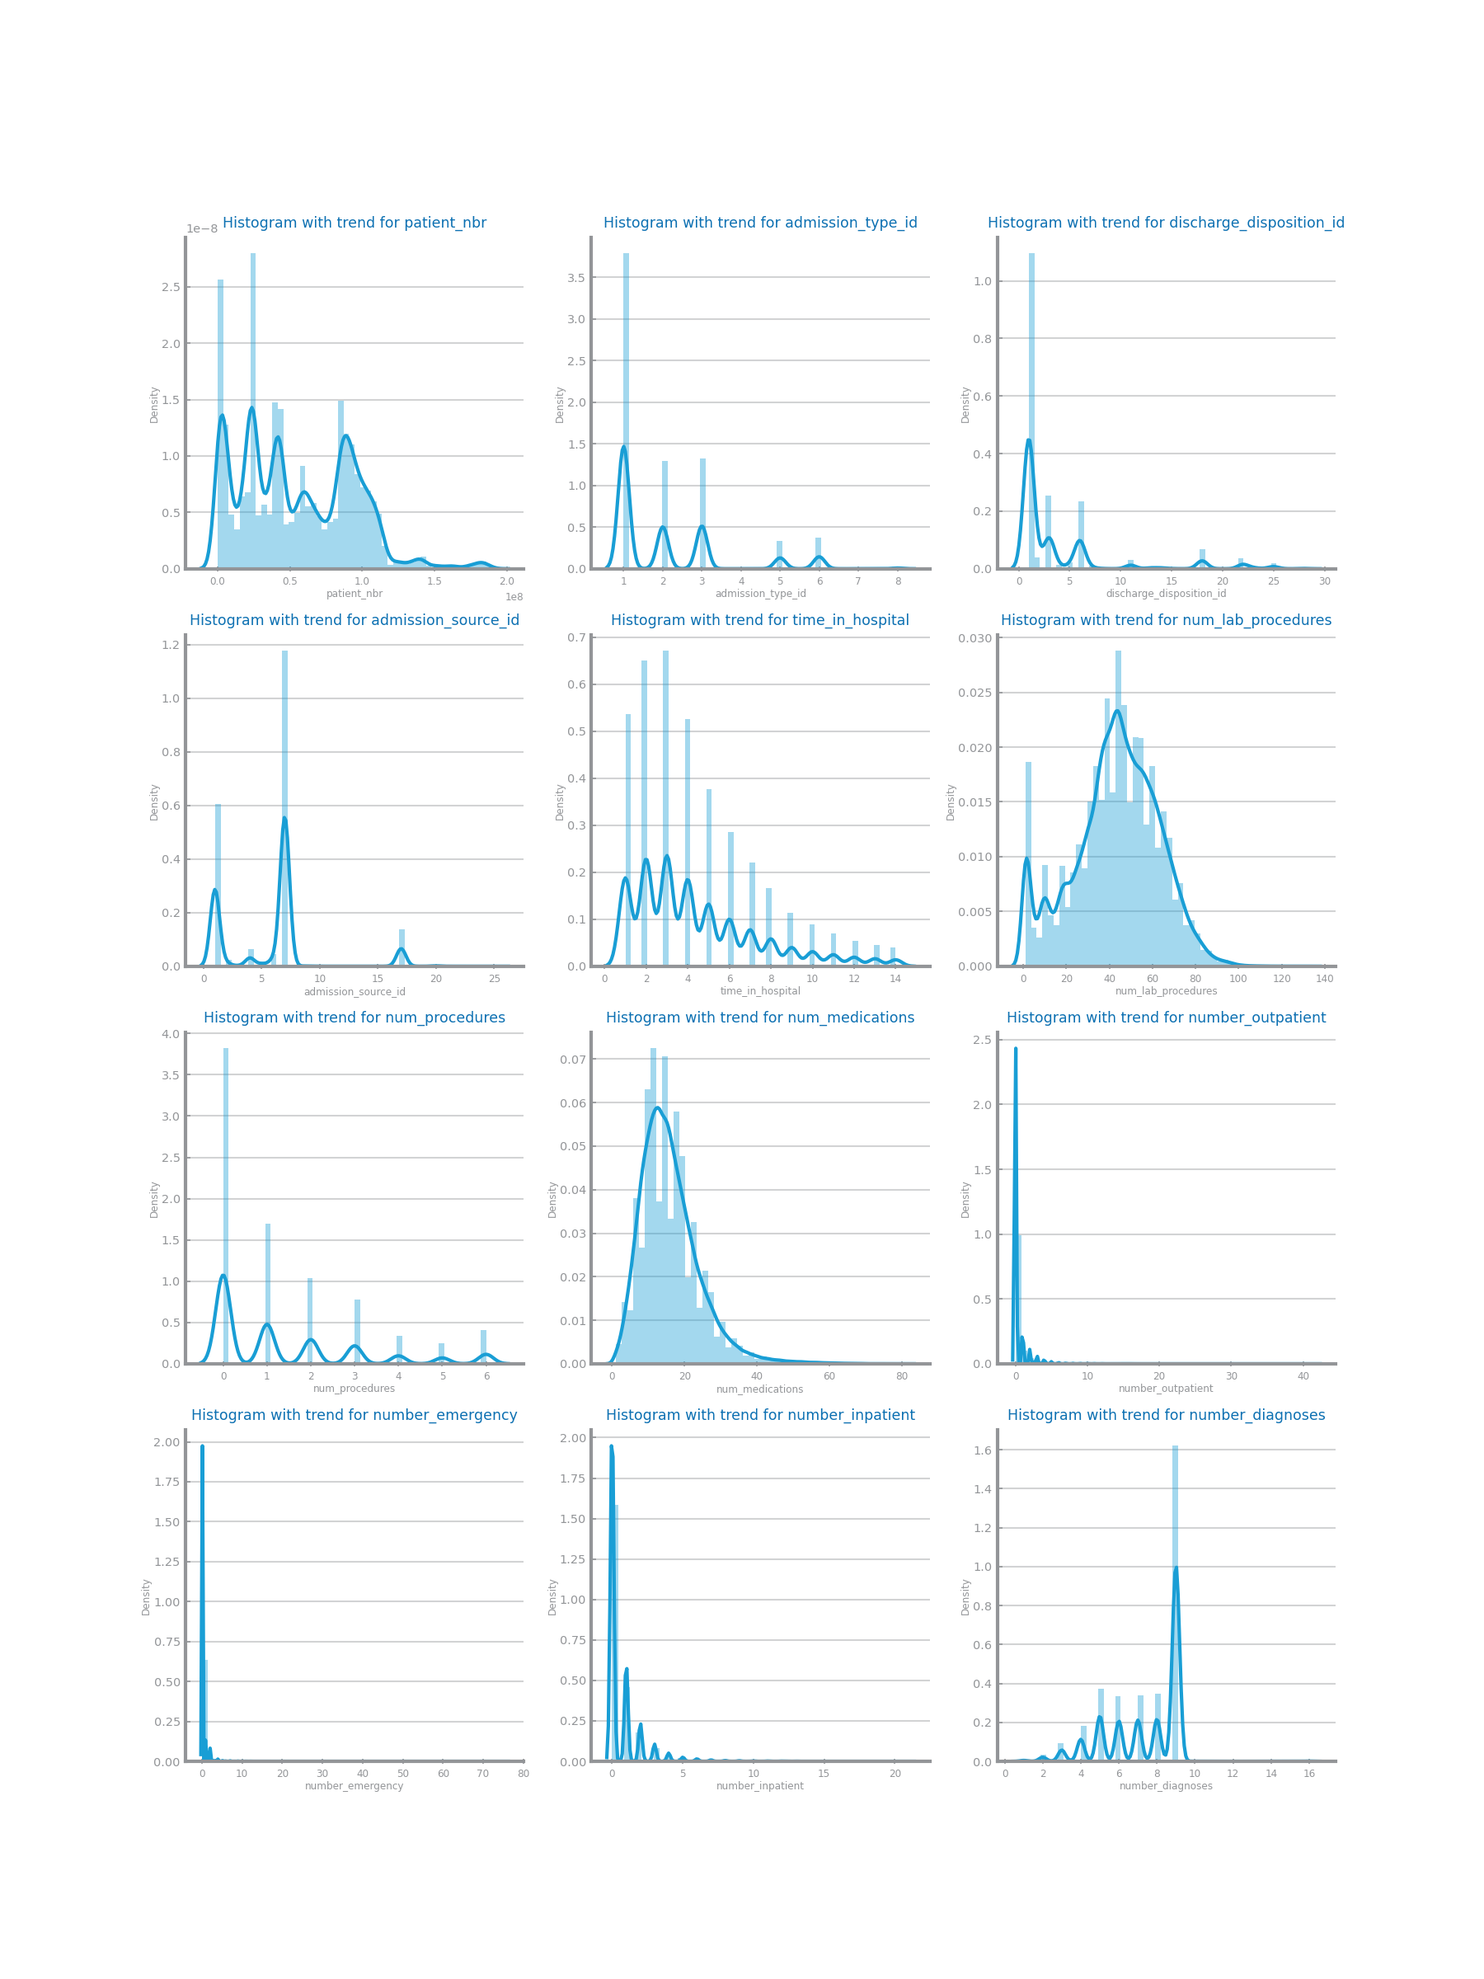
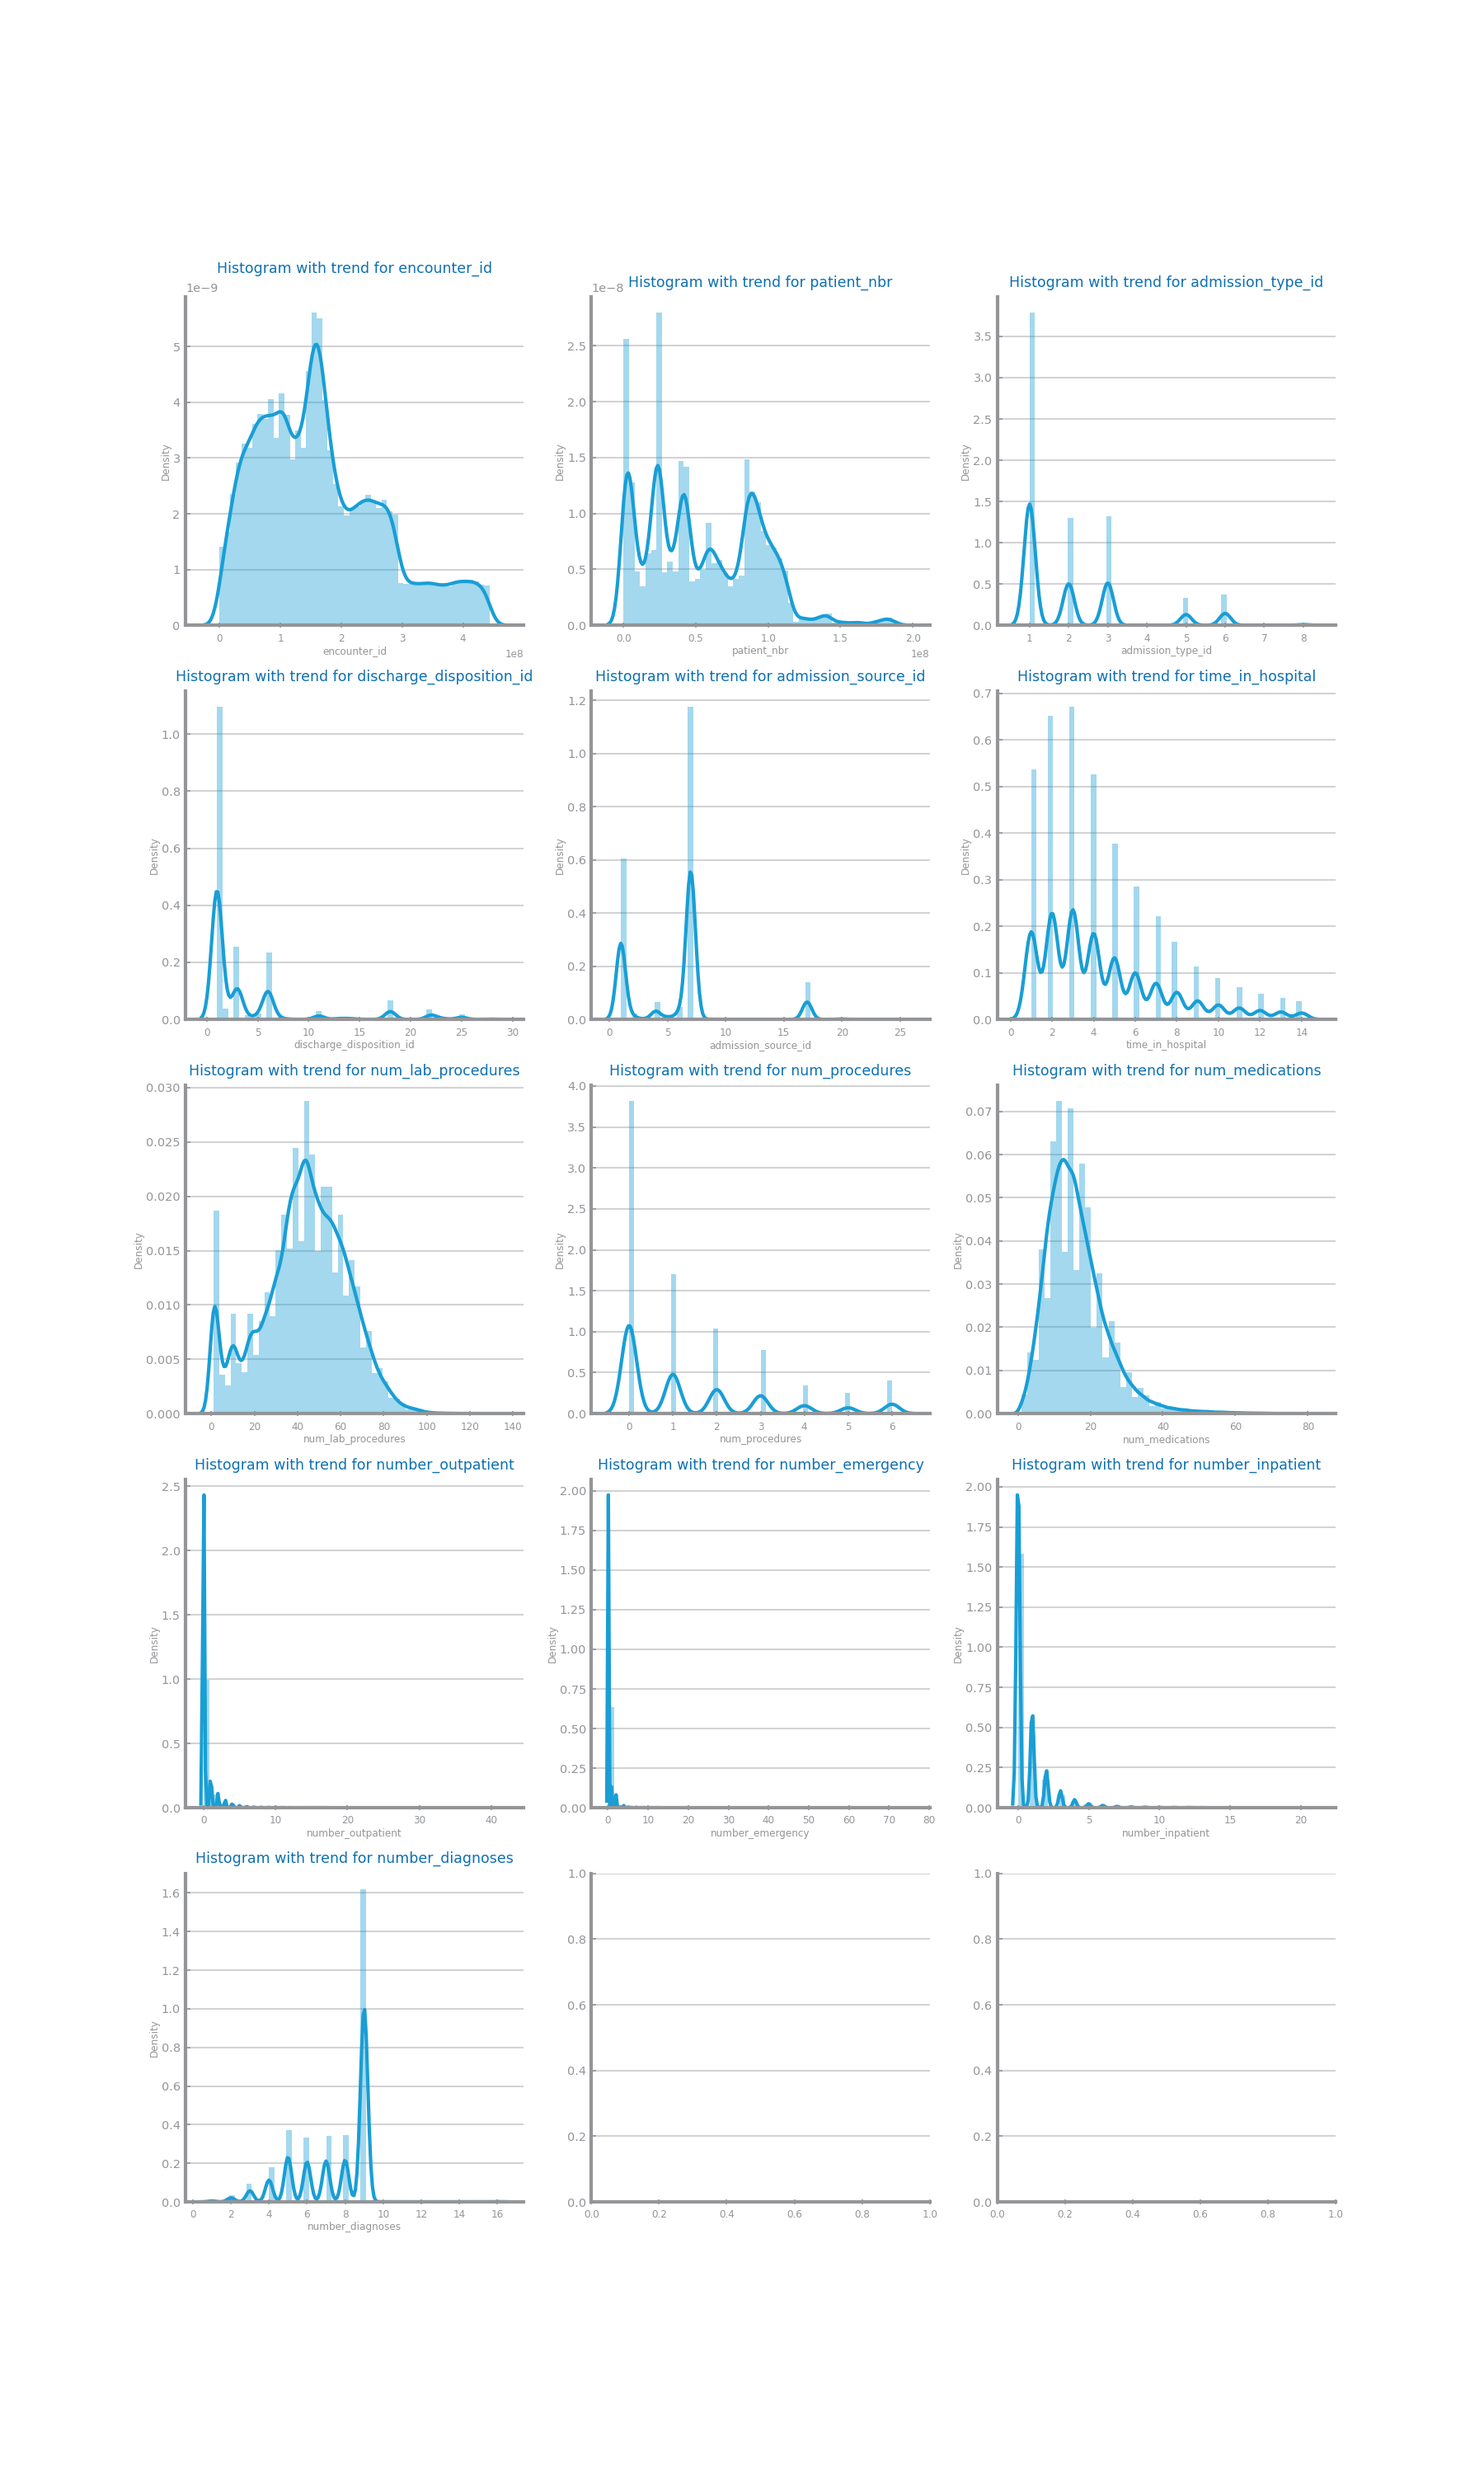
fixed numeric variables distribution

diff --git a/health_domain/data_profiling/data_distribution.py b/health_domain/data_profiling/data_distribution.py
@@ -3,12 +3,14 @@ from pandas.plotting import register_matplotlib_converters
 
 register_matplotlib_converters()
 filename = '../datasets/classification/diabetic_data.csv'
-data = read_csv(filename, index_col='encounter_id', na_values='')
+data = read_csv(filename, na_values='?')
 
 # # # # # # # # # # # # # # # # # # # # # # # # # # # # # # # # # # # # # # # # # #
 
 from matplotlib.pyplot import savefig, show
-data.boxplot(rot=45)
+from ds_charts import HEIGHT
+
+data.boxplot(rot=45,figsize=(HEIGHT, 2*HEIGHT))
 savefig('images/global_boxplot.png')
 
 # # # # # # # # # # # # # # # # # # # # # # # # # # # # # # # # # # # # # # # # # #
@@ -105,23 +107,38 @@ from scipy.stats import norm, expon, lognorm
 from matplotlib.pyplot import savefig, show, subplots, Axes
 from ds_charts import HEIGHT, multiple_line_chart, get_variable_types
 
-def compute_known_distributions(x_values: list) -> dict:
+def compute_known_distributions(x_values: list, dist: str) -> dict:
     distributions = dict()
-    # Gaussian
-    mean, sigma = norm.fit(x_values)
-    distributions['Normal(%.1f,%.2f)'%(mean,sigma)] = norm.pdf(x_values, mean, sigma)
-    # Exponential
-    loc, scale = expon.fit(x_values)
-    distributions['Exp(%.2f)'%(1/scale)] = expon.pdf(x_values, loc, scale)
-    # LogNorm
-    sigma, loc, scale = lognorm.fit(x_values)
-    distributions['LogNor(%.1f,%.2f)'%(log(scale),sigma)] = lognorm.pdf(x_values, sigma, loc, scale)
+    if (dist == 'norm') or (dist == 'lognorm'):
+        # Gaussian
+        mean, sigma = norm.fit(x_values)
+        distributions['Normal(%.1f,%.2f)'%(mean,sigma)] = norm.pdf(x_values, mean, sigma)
+    elif (dist == 'lognorm'):
+        # LogNorm
+        sigma, loc, scale = lognorm.fit(x_values)
+        distributions['LogNor(%.1f,%.2f)'%(log(scale),sigma)] = lognorm.pdf(x_values, sigma, loc, scale)
+    elif (dist == 'exp'):
+        # Exponential
+        loc, scale = expon.fit(x_values)
+        distributions['Exp(%.2f)'%(1/scale)] = expon.pdf(x_values, loc, scale)
     return distributions
 
 def histogram_with_distributions(ax: Axes, series: Series, var: str):
     values = series.sort_values().values
     ax.hist(values, bins=20, density=True)
-    distributions = compute_known_distributions(values)
+    if (var == 'admission_type_id') or (var == 'discharge_disposition_id') \
+        or (var == 'num_procedures') or (var == 'number_outpatient') \
+        or (var == 'number_emergency') or (var == 'number_inpatient'):
+        dist = 'exp'
+    elif (var == 'num_lab_procedures') or (var == 'num_medications'):
+        dist = 'lognorm'
+    elif (var == 'number_diagnoses') or (var == 'time_in_hospital') \
+        or (var == 'patient_nbr') or (var == 'admission_source_id') \
+        or (var == 'encounter_id'):
+        dist = 'norm'
+    else:
+        raise ValueError("Unknwon variable name.")
+    distributions = compute_known_distributions(values, dist)
     multiple_line_chart(values, distributions, ax=ax, title='Best fit for %s'%var, xlabel=var, ylabel='')
 
 numeric_vars = get_variable_types(data)['Numeric']
@@ -135,6 +152,7 @@ for n in range(len(numeric_vars)):
     i, j = (i + 1, 0) if (n+1) % cols == 0 else (i, j + 1)
 savefig('images/histogram_numeric_distribution.png')
 '''
+
 # # # # # # # # # # # # # # # # # # # # # # # # # # # # # # # # # # # # # # # # # #
 
 from matplotlib.pyplot import savefig, show, subplots
